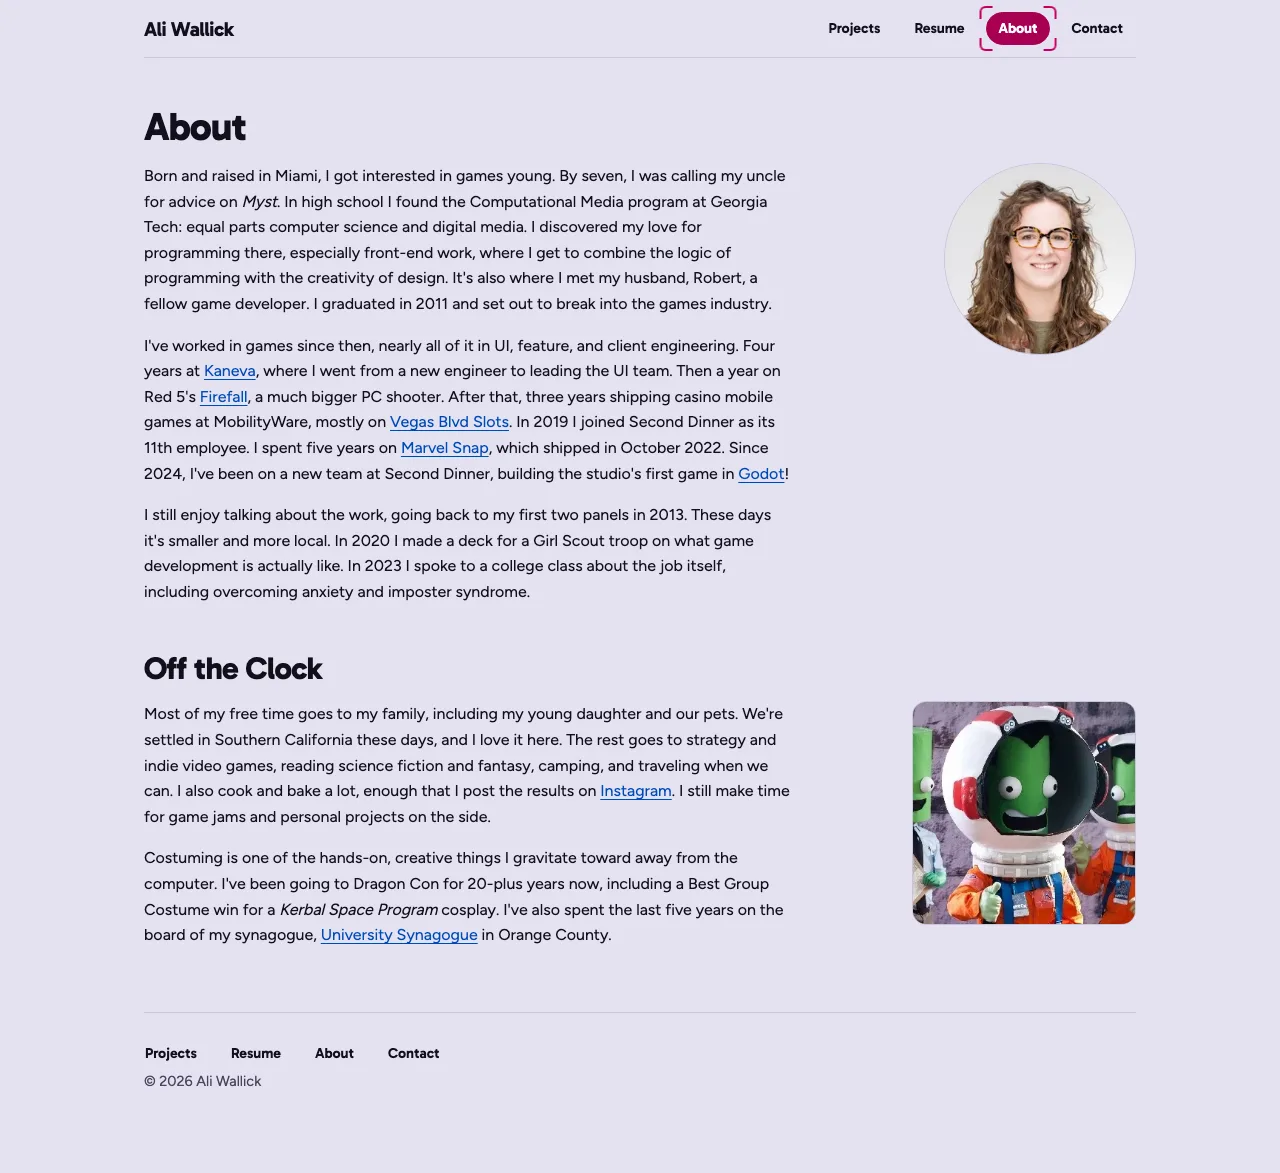
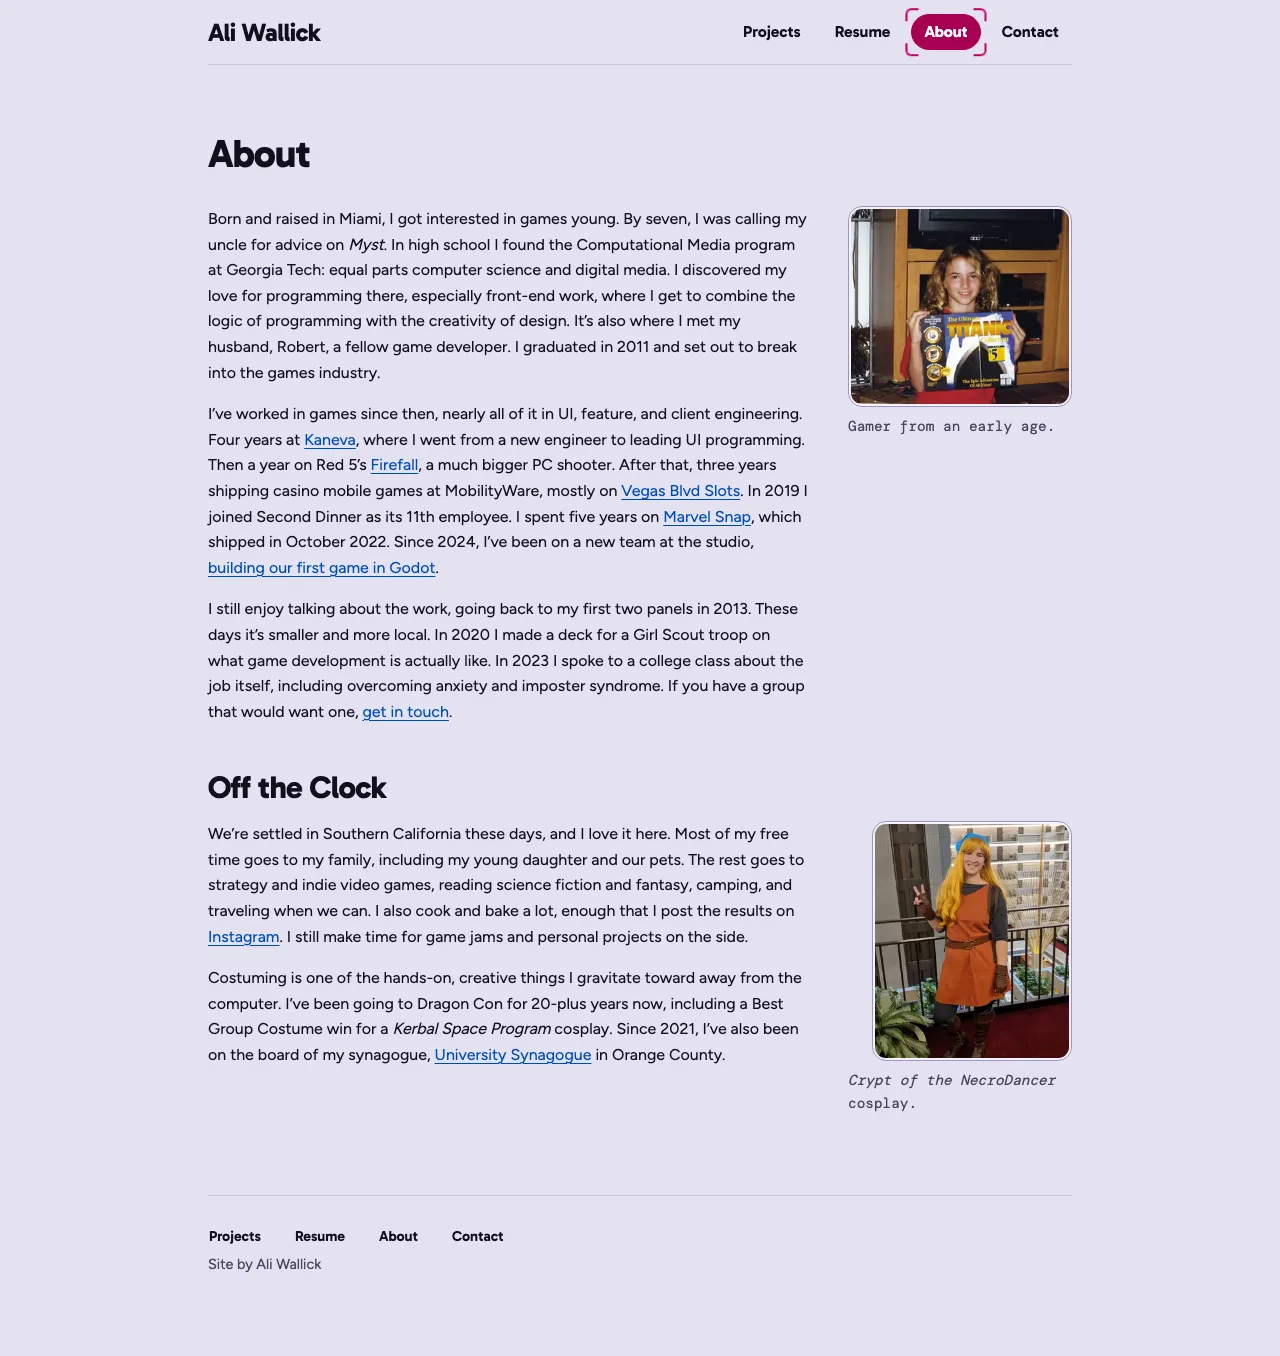
aliwallick.com: retake the "About, after" screenshot
The gallery image still showed the headshot and the Kerbal costume, both
of which left /about (#181). Recaptured from this branch's production
build with capture-comparison.mjs's desktop settings (1280 wide, full
page, WebP q82), so it carries this PR's About copy. Alt text updated to
match. docs/before-after/ is untouched: it is the cutover record.

diff --git a/src/content/projects/aliwallick-com.md b/src/content/projects/aliwallick-com.md
@@ -52,8 +52,8 @@ gallery:
   - type: image
     src: ../../assets/images/projects/aliwallick-com/new-about-desktop.webp
     alt: >-
-      The new About page, a headshot beside the opening paragraph and the Kerbal costume beside
-      “Off the Clock”
+      The new About page, a childhood photo of Ali holding up a PC game box beside the opening
+      paragraph, and her Crypt of the NecroDancer cosplay beside “Off the Clock”
     caption: About, after.
   - type: image
     src: ../../assets/images/projects/aliwallick-com/old-projects-desktop.webp
